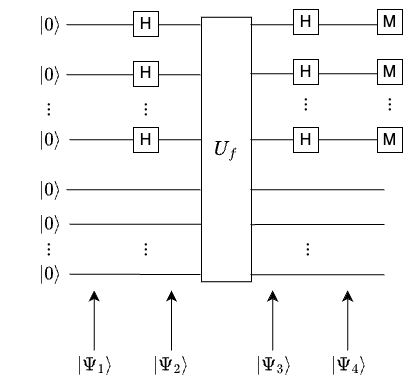
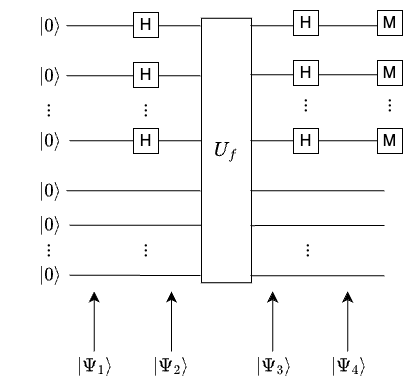
fixed index simons image

diff --git a/src/pages/index.html b/src/pages/index.html
@@ -34,7 +34,7 @@
         </div>
         <div class="grid-item">
             <a href="./algorithms/simons.html">Simon's algorithm</a>
-            <a href="./algorithms/simons.html"><img src="../../assets/simons.png" alt="Simon's algorithm"></a>
+            <a href="./algorithms/simons.html"><img src="../../assets/simons-no-psi.png" alt="Simon's algorithm"></a>
         </div>
         <div class="grid-item">
             <a href="./algorithms/btoracle.html">Beyond the oracle</a>
